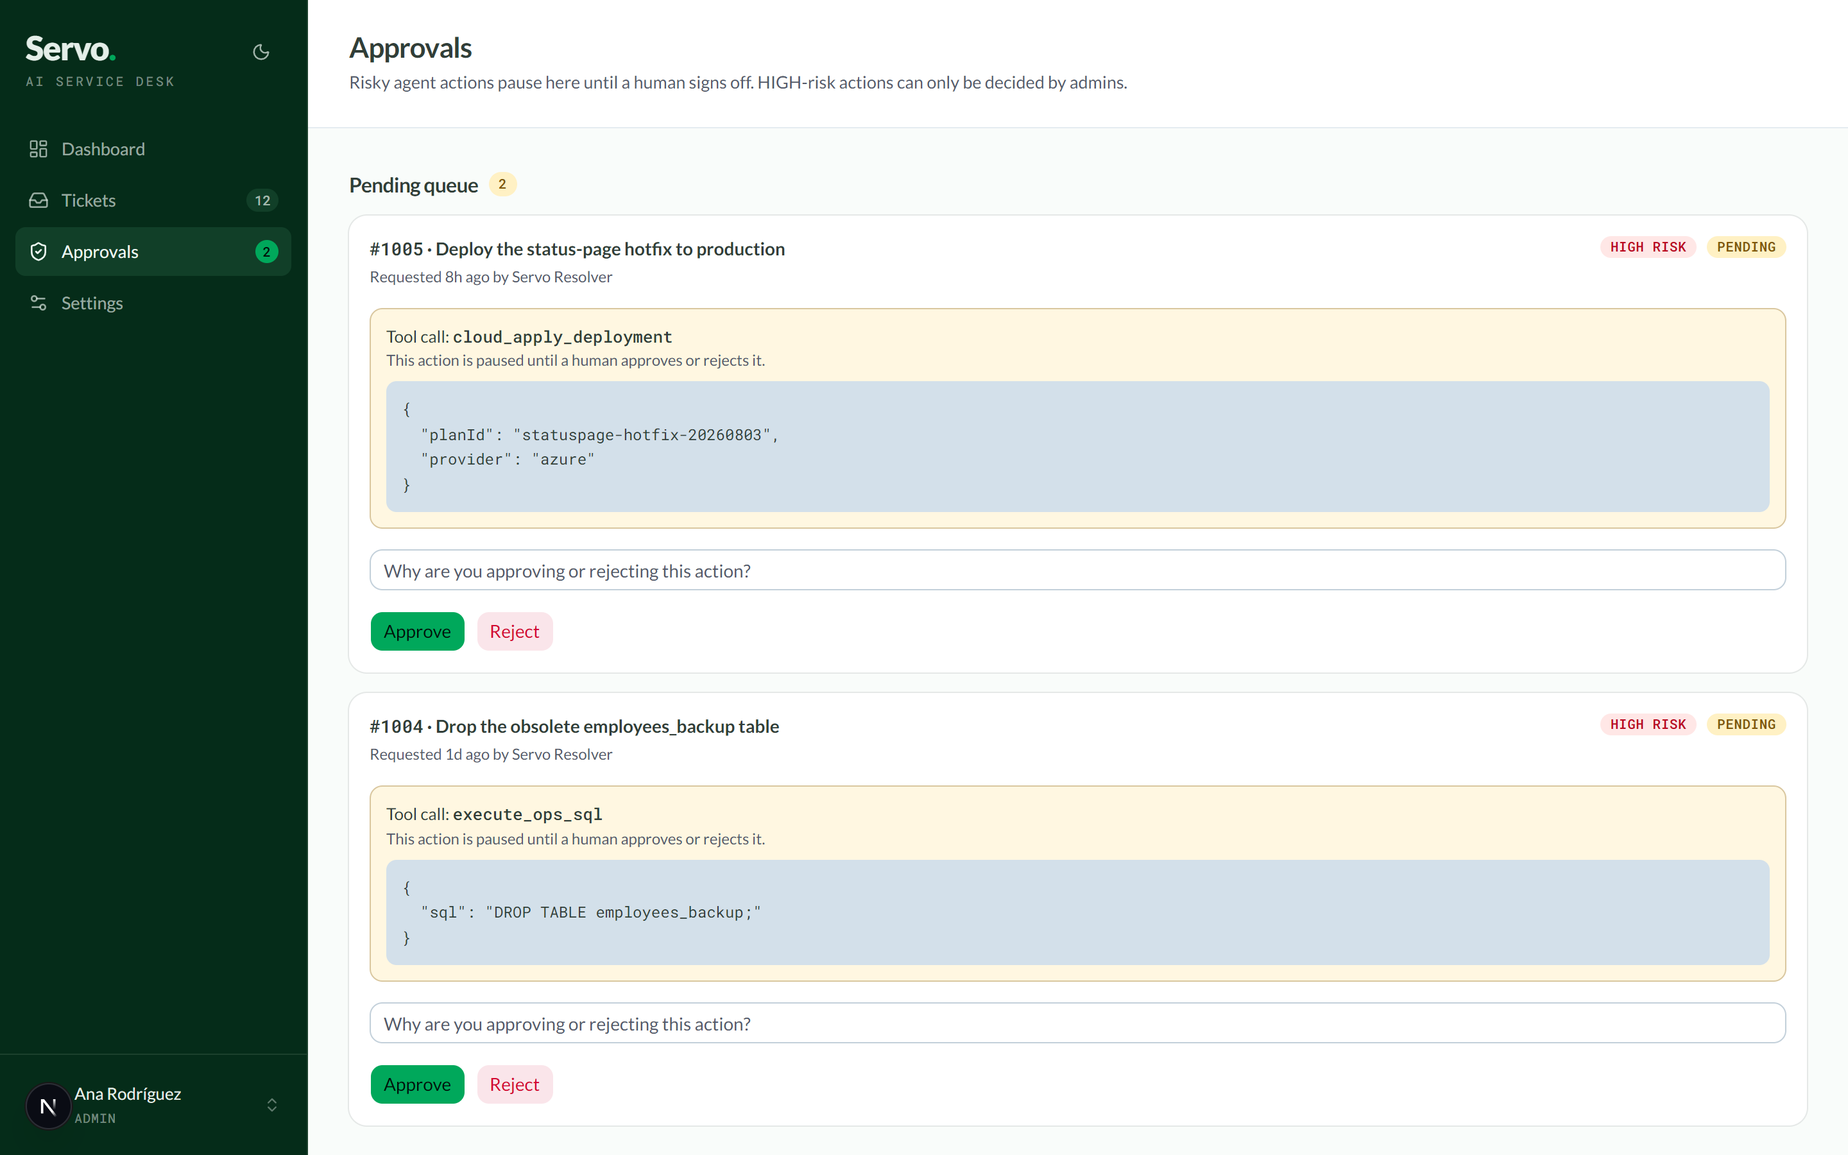
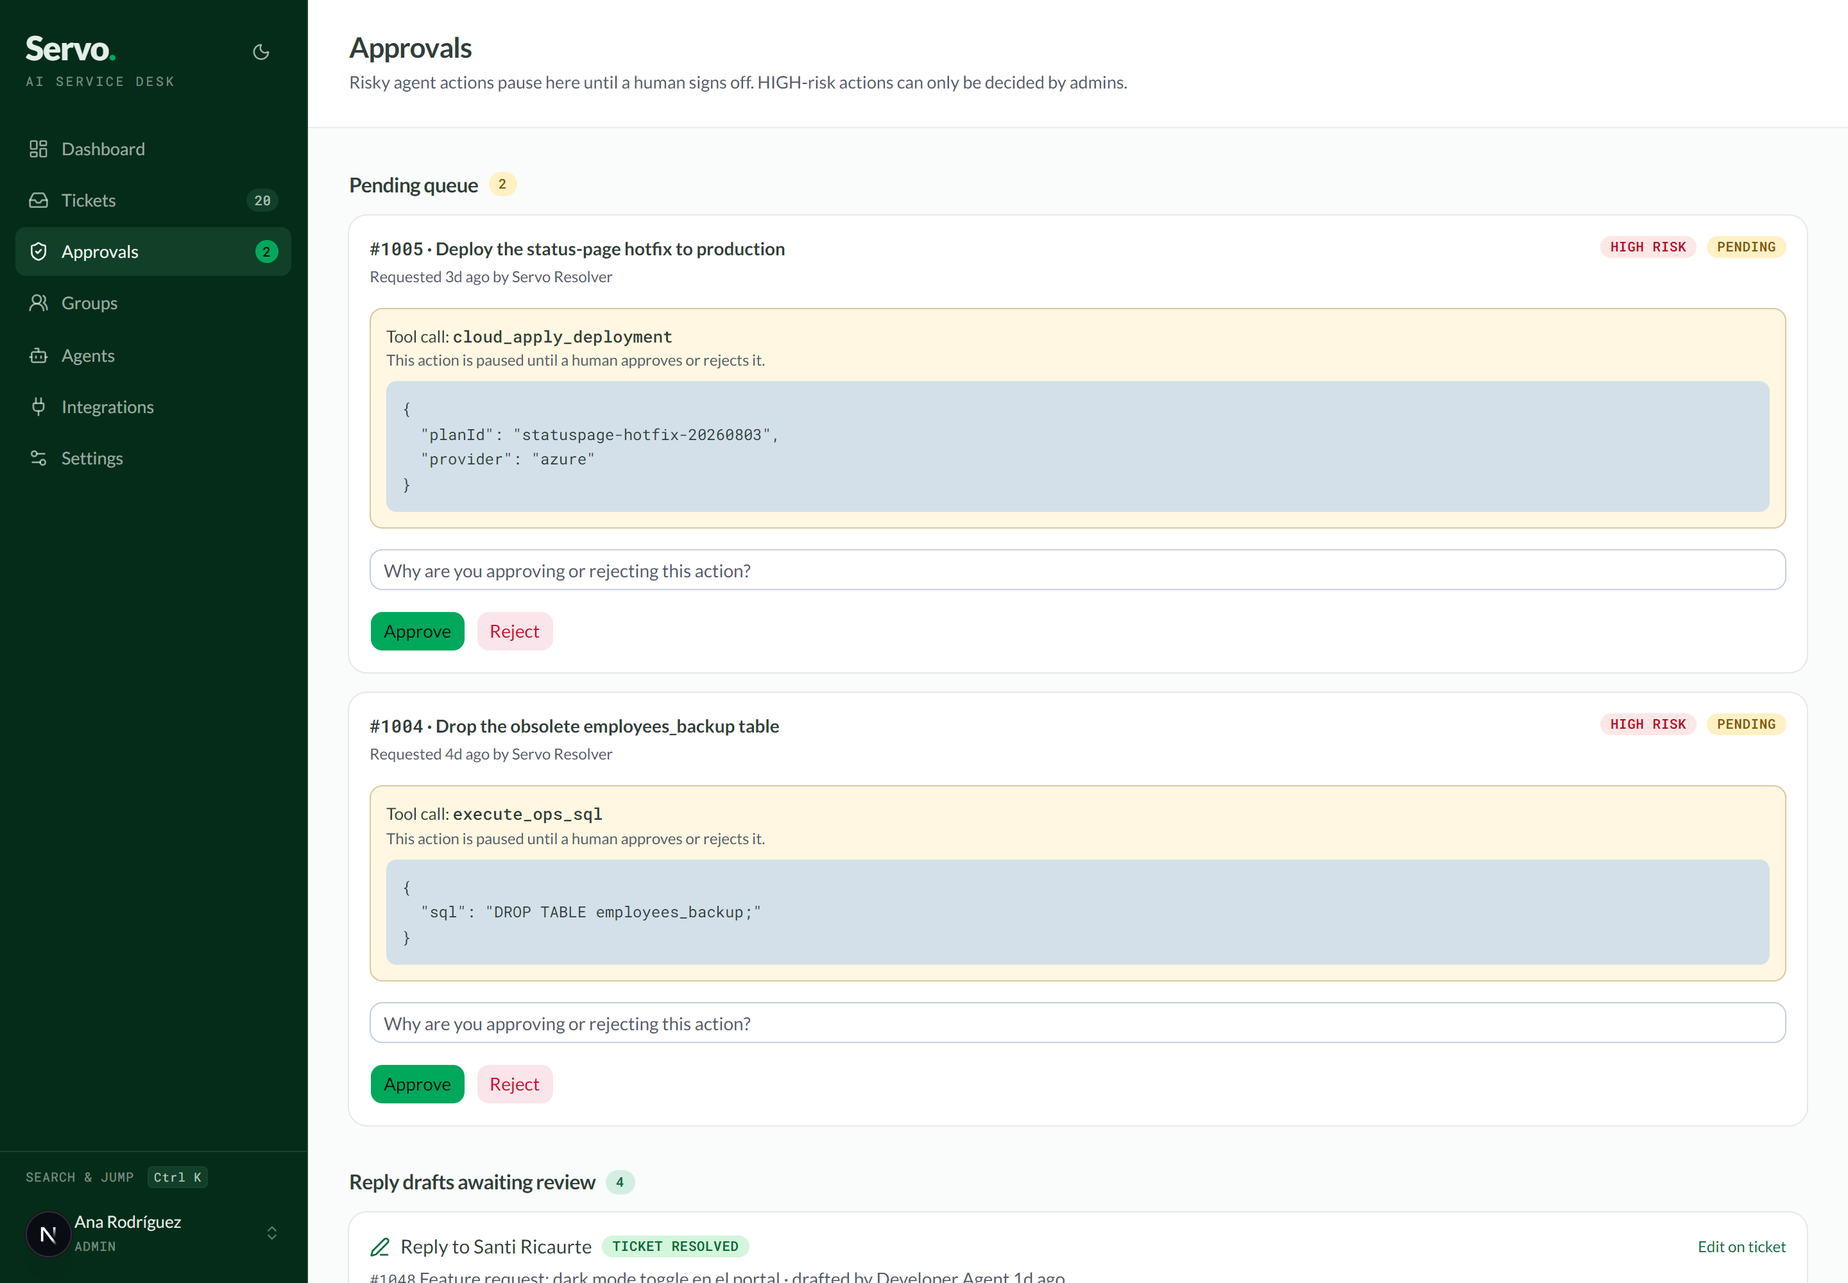
feat(release): production-ready positioning, Docker fix, user guide, real screenshots
- Dockerfile: copy .npmrc into the install layer - npm ci inside the
  image has been failing on the next-auth/nodemailer peer conflict since
  the mail stack landed. Verified end to end: fresh container boots the
  clean core bootstrap (wizard 201, zero tickets) and SERVO_DEMO=1 loads
  the 28-ticket showcase.
- docker-compose: document AUTH_SECRET, SERVO_ENCRYPTION_KEY, APP_URL
  and SERVO_DEMO.
- docs/USER-GUIDE.md: day-to-day guide (setup wizard, integrations
  table, the AI reply loop, resolver approvals/escalation, specialists,
  troubleshooting), linked from the README.
- README: POC framing retired - Servo is production-ready for
  self-hosting (clean installs, OIDC SSO, encrypted secrets, requester
  isolation). Stale security disclaimer replaced with the real posture +
  honest residuals; screenshots retaken from the live install: real GLM
  draft replies, the resolver run that created an actual GitHub repo,
  approvals with the draft queue, and the integrations page with live
  connection status.
- scripts/run-relay.ts: launch the IMAP relay with the decrypted
  inbound secret now that stored secrets are sealed.
- v1.0.0.

diff --git a/scripts/run-relay.ts b/scripts/run-relay.ts
@@ -1,0 +1,26 @@
+// Launch the IMAP relay with the decrypted inbound secret from Settings.
+// Keeps the plaintext out of shell history/args — it travels via child env.
+// Usage: npx tsx scripts/run-relay.ts  (IMAP_* vars still come from env)
+import { spawn } from "child_process";
+import path from "path";
+import { db } from "../src/lib/db";
+
+async function main() {
+  const row = await db.setting.findUnique({ where: { key: "integration.inbound.secret" } });
+  if (!row?.value) {
+    console.error("No inbound secret configured (Integrations → Inbound email).");
+    process.exit(1);
+  }
+  await db.$disconnect();
+  const child = spawn(
+    process.execPath,
+    [path.join(process.cwd(), "scripts", "imap-relay.mjs")],
+    {
+      stdio: "inherit",
+      env: { ...process.env, INBOUND_EMAIL_SECRET: row.value },
+    },
+  );
+  child.on("exit", (code) => process.exit(code ?? 0));
+}
+
+main();

diff --git a/README.md b/README.md
@@ -6,15 +6,15 @@
 
 [![CI](https://github.com/ricauts/servo/actions/workflows/ci.yml/badge.svg)](https://github.com/ricauts/servo/actions/workflows/ci.yml)
 
-**An open-source, self-hostable AI-powered service desk.** Tickets can be assigned to humans *or* AI agents. AI agents triage incoming tickets, resolve them using real tools (SQL against a sandboxed ops database, device inventory lookups, simulated GitHub and cloud integrations), pause for **human approval** before risky actions, get an automated **QA review** afterwards, and everything feeds a **KPI dashboard**.
+**An open-source, self-hostable AI-powered service desk.** Email becomes tickets; AI agents triage them, draft every reply and work requests with real tools (SQL, device inventory, **real GitHub repos/branches/PRs, live Azure queries**), pause for **human approval** before anything risky, get an automated **QA review** afterwards — and everything feeds a **KPI dashboard**, including how many AI replies ship untouched.
 
 <p align="center">
   <img src="docs/assets/screenshot-dashboard.png" alt="Servo KPI dashboard" width="100%" />
 </p>
 
-Bring your own Anthropic API key for real model calls — or run entirely offline with the built-in deterministic mock provider (the default). The whole demo works without a key, a network connection, or an account anywhere.
+Bring your own model — Anthropic, Z.AI GLM, or any OpenAI-compatible endpoint — or evaluate entirely offline with the built-in deterministic mock provider. Self-host it with real SSO (any OIDC IdP), per-requester data isolation, secrets encrypted at rest, and a first-run wizard that takes a clean install to a working desk in one screen.
 
-> **Status: proof of concept.** Servo is a POC built to demonstrate an agentic service-desk architecture. It is not hardened for production use — see the [security disclaimer](#security-disclaimer) below.
+> **Status: production-ready for self-hosting.** Fresh installs start clean (no demo data), sign in through your identity provider, and store secrets encrypted. Follow the [production checklist](#production-checklist) and read [SECURITY.md](SECURITY.md) before exposing an install to real users.
 
 ## Features
 
@@ -23,7 +23,7 @@ Bring your own Anthropic API key for real model calls — or run entirely offlin
 - **Tool-using resolver** — the AI resolver operates a registry of 11 built-in tools plus any custom ones you define: read-only and mutating SQL against a sandboxed ops database, device inventory lookups, password resets, GitHub repo/PR operations, Azure resource listing, and cloud deployment plan/apply.
 - **Human-approval gates** — each tool carries a risk level (LOW/MEDIUM/HIGH) and an editable *requires approval* policy. When the agent reaches a gated tool, the run pauses, an approval lands in the Approvals inbox, and the run resumes exactly where it left off after a decision. Rejections flow back to the agent, which adapts instead of retrying.
 - **Automated QA review** — after a run that executed medium/high-risk tools, a QA agent reviews the transcript and issues a PASS/FAIL verdict; failures reassign the ticket to a human with an explanatory comment.
-- **KPI dashboard** — open tickets, resolution times, first-response times, AI-vs-human resolution split, approval stats, ticket volume over 30 days.
+- **KPI dashboard** — open tickets, resolution times, first-response times, AI-vs-human resolution split, approval stats, ticket volume over 30 days, and **AI reply acceptance** (sent as-is vs edited vs discarded) so you can see exactly how much typing the AI is saving.
 - **BYOK with offline mock mode** — plug in an Anthropic API key via Settings or environment variable, or run fully offline with the deterministic mock provider.
 - **API key pool with per-agent assignment and throughput metering** — register multiple named credentials (any provider mix), assign one per specialized agent from the Agents page, and every model call is logged (tokens in/out, latency, key, agent). A throughput panel on Agents aggregates the last 7 days per key and agent.
 - **SLA targets with automatic escalation** — per-priority response and resolution targets (editable in Settings). Every ticket carries live SLA state on the queue and detail views, the dashboard tracks breaches, and a scan escalates missed targets one tier up the group hierarchy — assigning the least-loaded eligible member and logging why. Schedule `POST /api/sla/scan` to run it unattended.
@@ -38,19 +38,21 @@ Bring your own Anthropic API key for real model calls — or run entirely offlin
 - **Custom tools & integrations** — admins define new HTTP tools from Settings (method, URL, headers, body template with `{input.field}` placeholders, and a stored secret injected via `{secret}`). They join the resolver's registry like built-in tools, with the same risk levels and human-approval gates — the fastest path to integrating a webhook, an internal API, or a SaaS endpoint.
 - **Specialized agents as `.md` files** — resolver personas (Analytics, Developer, Cybersecurity…) are Markdown documents with YAML frontmatter (`name`, `categories`, `tools`) and a system-prompt body. Drop files into `agents/` or create/edit them from the UI; the resolver automatically uses the enabled specialist covering the ticket's category. A **visual tool picker** per agent (checkboxes with each tool's risk and approval policy) narrows what it may call — no YAML editing — while core tools stay always-on and the .md frontmatter is rewritten to match.
 - **Role-based permissions** — ADMIN, AGENT, and REQUESTER roles with a permission matrix; HIGH-risk approvals and group management are admin-only.
-- **Demo user switcher** — hop between seeded users to experience every role without an auth provider.
+- **Offline evaluation mode** — without an OIDC tenant Servo runs a demo user switcher, so you can experience every role (and the whole agent loop, on the mock provider) with no auth provider, no API key and no network.
 - **shadcn/ui frontend** — Tailwind v4 + [shadcn/ui](https://ui.shadcn.com) components and charts (Recharts), themed with Servo's green-accent OKLCH palette; light mode by default with a dark-mode toggle.
 - **Docker-ready** — one `docker compose up --build` gives you a self-contained instance with persistent SQLite volumes.
 
 ## Screenshots
 
-| Agent run with human approval + QA | Approvals inbox |
-|---|---|
-| ![Ticket detail with an agent run, approval and QA verdict](docs/assets/screenshot-ticket-detail.png) | ![Approvals queue](docs/assets/screenshot-approvals.png) |
+All captures below are the real thing — live model replies (Z.AI GLM), a repository actually created on GitHub by the resolver, and the human-approval queues in action.
 
-| Ticket queue | Settings — BYOK & tool permissions |
+| A real agent run — repo created on GitHub, QA-reviewed | Approvals — tool sign-offs + AI reply drafts |
 |---|---|
-| ![Tickets list](docs/assets/screenshot-tickets.png) | ![Settings](docs/assets/screenshot-settings.png) |
+| ![Ticket detail with a real agent run that created a GitHub repository](docs/assets/screenshot-ticket-detail.png) | ![Approvals queue with pending tool approvals and AI reply drafts](docs/assets/screenshot-approvals.png) |
+
+| Integrations — SSO, mail, GitHub, MCP connected | Ticket queue |
+|---|---|
+| ![Integrations page with live connection status](docs/assets/screenshot-integrations.png) | ![Tickets list](docs/assets/screenshot-tickets.png) |
 
 <p align="center">
   <img src="docs/assets/screenshot-mobile.png" alt="Servo on mobile" width="300" /><br/>
@@ -146,7 +148,7 @@ The seed creates these users, switchable from the user switcher in the sidebar:
 3. **Approval pause** — when a tool policy says *requires approval*, the run stops, its full conversation is persisted, and an approval request appears in the Approvals inbox and on the ticket. On approval the tool executes and the loop continues from the exact same conversation state; on rejection the agent receives the rejection as an error result and wraps up gracefully.
 4. **QA** — if the run executed medium/high-risk tools and QA is enabled, a reviewer agent audits the transcript. A FAIL verdict reassigns the ticket to a human agent with a system comment.
 
-See [docs/ARCHITECTURE.md](docs/ARCHITECTURE.md) for the full engine design, [docs/DEMO.md](docs/DEMO.md) for a 5-minute guided tour, and [docs/DESIGN.md](docs/DESIGN.md) for the color system (WCAG-audited light/dark tokens).
+See [docs/USER-GUIDE.md](docs/USER-GUIDE.md) for the day-to-day usage guide (setup, integrations, the AI reply loop, approvals, troubleshooting), [docs/ARCHITECTURE.md](docs/ARCHITECTURE.md) for the full engine design, [docs/DEMO.md](docs/DEMO.md) for a 5-minute guided tour, and [docs/DESIGN.md](docs/DESIGN.md) for the color system (WCAG-audited light/dark tokens).
 
 ## Project structure
 
@@ -186,15 +188,14 @@ docs/
 - SSO and real RBAC (the current roles/permissions are a demo matrix)
 - Email/Slack notifications
 
-## Security disclaimer
+## Security
 
-Servo is a **proof of concept**. Known shortcuts you should not carry into production:
+The full model lives in [SECURITY.md](SECURITY.md). The short version:
 
-- Authentication is a demo cookie-based user switcher — anyone can be anyone.
-- API keys saved via Settings are stored unencrypted in SQLite.
-- The agent's SQL tools run against a *sandboxed* local ops database, but the mutating SQL tool executes model-generated statements (behind the approval gate) — treat that pattern with care in any real deployment.
-- Custom HTTP tools make requests from the server to admin-defined URLs. There is no egress allowlist, so an admin can point them at internal networks (SSRF by design) — restrict who is an admin and add an allowlist before production use. Tool secrets are stored unencrypted in SQLite.
-- No rate limiting, audit log hardening, CSRF protection, or input sanitization beyond basic validation.
+- **Real sign-in** via any OIDC IdP, with a server-side domain allowlist; requesters only ever see their own tickets. Demo mode (the user switcher) exists for offline evaluation only — never expose it to a network you don't trust.
+- **Secrets are encrypted at rest** (AES-256-GCM via `SERVO_ENCRYPTION_KEY`) and never returned by any API.
+- **Risky agent actions sit behind human-approval gates**, read-only SQL is enforced at the driver, and unmet objectives escalate to a human instead of being marked resolved.
+- Honest residuals: custom HTTP tools are SSRF-by-design for admins (restrict who is an admin; egress allowlist is on the roadmap), and there is no built-in rate limiting yet — front a public install with a proxy/WAF.
 
 ## License
 

diff --git a/docs/USER-GUIDE.md b/docs/USER-GUIDE.md
@@ -1,0 +1,148 @@
+# Servo — User Guide
+
+How to run a service desk with Servo day to day. For installation see the
+[README](../README.md); for the security model see [SECURITY.md](../SECURITY.md).
+
+**The core loop:** a request arrives (email, form or another agent via MCP) →
+Servo triages it and an AI specialist drafts the reply and/or works the ticket
+with tools → **a human approves anything that matters** → the answer goes out
+and the conversation threads back onto the same ticket.
+
+---
+
+## 1. First-run setup
+
+Open the app after `npm run setup` (or first Docker boot). The **setup
+wizard** asks for:
+
+- **Your name + email** — becomes the first ADMIN. That email keeps the admin
+  role even after SSO is enabled.
+- **SSO tenant (optional)** — any OIDC provider (Google, Entra ID, Okta,
+  Keycloak…). You can also connect it later from **Integrations → Single
+  sign-on**. Without SSO, Servo runs in the offline demo user-switcher mode —
+  fine for evaluating, not for a network you don't trust.
+
+After the wizard you land on a clean desk: no tickets, the three system AI
+agents (Triage, Resolver, QA) and the bundled specialists ready.
+
+## 2. Connect your environment
+
+Everything lives in two places: **Integrations** (external systems) and
+**Settings** (AI, policies, team).
+
+### Integrations (left rail shows live status per integration)
+
+| Integration | What it does | Minimum you need |
+|---|---|---|
+| **Single sign-on** | Real login for your org; requesters auto-provision on first sign-in | Issuer URL, client ID/secret; set **Allowed email domains** if your IdP accepts outside accounts |
+| **Email notifications** | Ticket confirmations, resolutions, approval alerts, approved AI replies | An SMTP URL (`smtp://user:app-password@host:587`) + the enable switch |
+| **Inbound email** | Mail becomes tickets; replies thread by the `#123` tag in subjects | A shared secret + your provider's webhook to `POST /api/inbound/email`, or the bundled Gmail/Workspace relay: `node scripts/imap-relay.mjs` |
+| **GitHub** | Real repos, feature branches and PRs from tickets | A fine-grained PAT (Contents; Administration only if the AI may create repos) |
+| **Azure** | Live read-only resource queries | A service principal with the Reader role |
+| **Outbound webhooks** | Signed JSON events (`ticket.created`, `reply.sent`…) to your systems | An endpoint URL; verify the `x-servo-signature` HMAC |
+| **MCP server** | Lets external agents (Claude Code/Desktop…) file and search tickets and run tools | A long bearer token |
+
+### Settings
+
+- **AI provider (BYOK):** pick `anthropic`, `zai`, `openai`-compatible or
+  `mock` (offline). Keys can come from env vars or be stored — stored secrets
+  are encrypted at rest when `SERVO_ENCRYPTION_KEY` is set. **Test
+  connection** validates before saving. If credentials are unusable Servo
+  falls back to mock so nothing breaks.
+- **API key pool:** register several named keys and assign one per
+  specialist agent; the Agents page shows tokens/latency per key ("Throughput").
+- **Tool policies:** per tool — enabled, risk level, and whether it
+  **requires human approval**. Treat approval gates on mutating tools as a
+  security boundary.
+- **SLA policies:** response/resolution targets per priority; breaches
+  escalate a tier automatically (schedule `POST /api/sla/scan`).
+- **Team:** promote/demote roles. REQUESTERs only ever see their own tickets.
+
+## 3. Working tickets
+
+### Where tickets come from
+
+- **Email** to your connected mailbox — sender becomes a requester, subject
+  is the title, triage runs automatically.
+- **New ticket** button, or **MCP** from another agent.
+
+### The AI reply loop (the everyday flow)
+
+1. When an email opens a ticket (and *Draft replies for inbound email* is on),
+   the right specialist writes a reply **in the requester's language**.
+2. The draft appears on the ticket **and** in **Approvals → "Reply drafts
+   awaiting review"** (oldest first).
+3. Review it: **edit in place**, then **Approve & send** — it posts as a
+   public comment under your name and emails the requester — or **Discard**,
+   or **Regenerate** (e.g. after a requester follow-up; follow-ups refresh
+   pending drafts automatically).
+4. The requester's answer threads back onto the same ticket by subject tag.
+
+The dashboard's **AI replies** tile shows the acceptance rate (sent as-is vs
+edited vs discarded) — your measure of how much typing the AI is saving.
+
+### Letting the AI work the ticket
+
+**Run AI resolver** (ticket right rail) hands the ticket to the resolver: it
+investigates with read-only tools first, acts, keeps the requester posted,
+and finishes honestly:
+
+- Objective met → `resolve_ticket`.
+- Tool needs sign-off → the run **pauses** and the action lands in
+  **Approvals** with its input; approve to resume or reject (the agent adapts,
+  never retries a rejected action).
+- Objective can't be met → the agent **escalates to a human** with what it
+  tried; unmet objectives are never marked resolved.
+- Risky runs get an automated **QA review**; failures reassign to a human.
+
+### Approvals inbox
+
+One queue for everything that needs a human: tool sign-offs (HIGH risk is
+admin-only) and AI reply drafts. Everything decided is logged with who and
+when.
+
+### Groups & escalation
+
+Create groups (e.g. Development / Analytics / Engineering) owning ticket
+categories, with member tiers JUNIOR → MID → SENIOR (or STANDALONE
+specialists). Priority sets the minimum tier; **Escalate** moves a ticket up
+a tier or across groups, picking the least-loaded eligible member. SLA
+breaches escalate automatically.
+
+## 4. Specialized agents
+
+**Agents** page. Each specialist is a Markdown file (frontmatter: `name`,
+`description`, `categories`, `tools`; body = system prompt):
+
+- The enabled specialist covering the ticket's category handles it.
+- **Tools** opens the visual picker (risk + approval badges per tool); core
+  communication tools are always on.
+- **API key** assigns a pool credential; **Edit .md** edits the persona
+  in place. Files in `agents/` sync on setup; UI edits win afterwards.
+
+## 5. Monitoring
+
+The dashboard covers the last 30 days: open tickets, first-response and
+resolution averages, SLA breaches, AI-vs-human resolutions, AI reply
+acceptance, approvals. The Agents page adds per-key/per-agent token and
+latency throughput.
+
+## 6. Troubleshooting
+
+| Symptom | Fix |
+|---|---|
+| Locked out after a bad SSO config | `node scripts/reset-sso.cjs` → reconfigure from Integrations |
+| "Sign-in failed / account not allowed" | The email's domain isn't in **Allowed email domains** (or the IdP rejected it) |
+| AI answers look scripted | You're in mock mode — check Settings → AI provider (missing/invalid key falls back to mock) |
+| Drafts not appearing for inbound mail | *Draft replies for inbound email* toggle (Settings → AI) and the inbound integration status |
+| Mail not becoming tickets | Inbound enabled + secret matches the relay/webhook; for Gmail check the relay process is running |
+| GitHub/Azure tools "simulated" | No token/credentials configured for that integration |
+| `SERVO_ENCRYPTION_KEY is not set but…` errors | The DB holds encrypted secrets; set the original key in the environment |
+| Secrets saved before enabling encryption | `node scripts/encrypt-secrets.cjs` seals them once |
+
+## 7. Good habits
+
+- Keep approval gates on anything that mutates external systems.
+- Scope integration credentials tightly and rotate anything ever shared.
+- Set `AUTH_SECRET`, `SERVO_ENCRYPTION_KEY` and HTTPS before real users.
+- Review the escalation groups so no category dead-ends.
